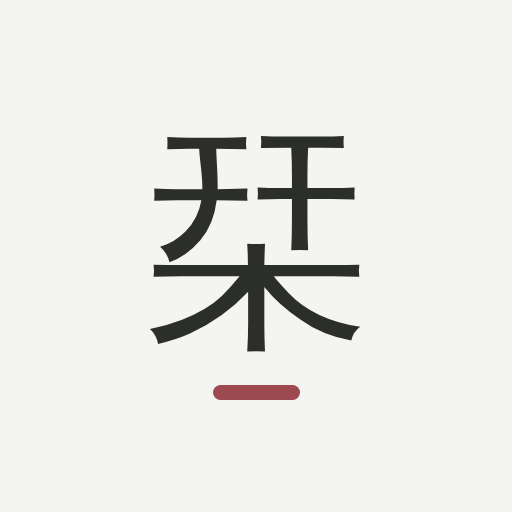
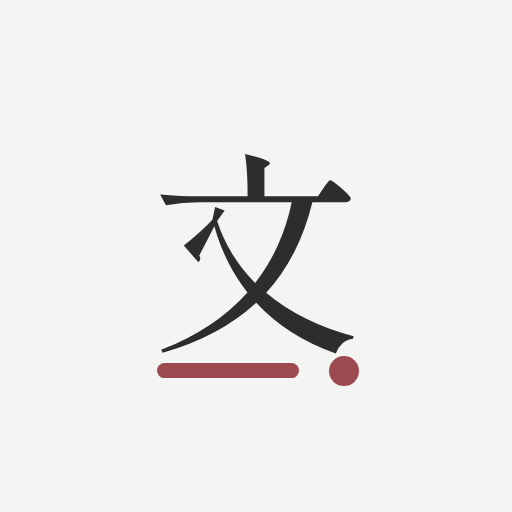
feat: アプリ名を「栞（しおり）」から「文（ふみ）」に変更、ロゴ・アイコンを刷新
日記＝別々の世界に生きる「わたし」たちが時を越えて交わす手紙、という
捉え直しに合わせた改名。ロゴは案A-3（明朝「文」＋紅の傍線＋封蝋の点）。

- ロゴ：ヘッダーの一字を「文」に、傍線の結びに封蝋の点を追加
- アイコン：192/512/maskable 4点を「文」で再生成（和紙地＋封蝋）
- manifest：name/short_name/description を更新
- 文言：「今日に栞を挟む」→「あしたへ文を出す」、設定の紹介文、
  インストール案内、エクスポート見出し、ファイル名（fumi_*）など
- 互換維持：IndexedDB名・バックアップ形式（app:'shiori'）・保存キーは不変。
  既存データ・過去のバックアップはそのまま使える
- Service Worker キャッシュを fumi-shell-v18 に、仕様書に決定を記録

Claude-Session: https://claude.ai/code/session_01QQD8fns4oX9YnaxNuD1tHo

Changed region(s): [[0.2812, 0.25, 0.7188, 0.7812]]

diff --git a/app.js b/app.js
@@ -165,7 +165,7 @@ function updateReflectDayUI(){
   const gt=document.getElementById('gTitle');
   if(gt) gt.textContent=(isToday?'きょう':murmurDayLabel())+'集めた呟き';
   const sb=document.getElementById('saveReflect');
-  if(sb) sb.textContent=isToday?'今日に栞を挟む':'この日に栞を挟む';
+  if(sb) sb.textContent=isToday?'あしたへ文を出す':'この日から文を出す';
 }
 function shiftMurmurDay(n){
   const [y,m,d]=murmurDay.split('-').map(Number);
@@ -413,7 +413,7 @@ async function saveReflection(){
   await setDay(murmurDay,day);
   document.getElementById('savedNote').textContent='保存済み — いつでも書き直せます';
   refreshMeta();
-  toast(isToday?'今日に栞を挟みました':murmurDayLabel()+'に栞を挟みました');
+  toast(isToday?'あしたへ文を出しました':murmurDayLabel()+'から文を出しました');
 }
 
 /* ============ ai reflection draft (share bridge) ============ */
@@ -609,7 +609,7 @@ async function buildExportMd(fromDs,toDs){
   const [fy,fm,fd]=fromDs.split('-').map(Number);
   const [ty,tm,td]=toDs.split('-').map(Number);
   let d=new Date(fy,fm-1,fd); const end=new Date(ty,tm-1,td);
-  let out=`# 栞（しおり）エクスポート\n\n期間: ${fromDs} 〜 ${toDs}\n`;
+  let out=`# 文（ふみ）エクスポート\n\n期間: ${fromDs} 〜 ${toDs}\n`;
   let has=false;
   while(d<=end){
     const ds=fmtKey(d);
@@ -642,7 +642,7 @@ async function exportRange(){
     const blob=new Blob([res.text],{type:'text/markdown;charset=utf-8'});
     const url=URL.createObjectURL(blob);
     const a=document.createElement('a');
-    a.href=url; a.download=`shiori_${from}_${to}.md`;
+    a.href=url; a.download=`fumi_${from}_${to}.md`;
     document.body.appendChild(a); a.click(); a.remove();
     setTimeout(()=>URL.revokeObjectURL(url),1000);
     toast('書き出しました');
@@ -667,7 +667,7 @@ async function saveBackup(){
   const backup = await buildBackup();
   if(!Object.keys(backup.data).length){ toast('バックアップする記録がありません'); return; }
   const json = JSON.stringify(backup);
-  const fname = `shiori_backup_${fmtKey(new Date())}.json`;
+  const fname = `fumi_backup_${fmtKey(new Date())}.json`;
   try{
     const blob=new Blob([json],{type:'application/json'});
     const url=URL.createObjectURL(blob);
@@ -760,7 +760,7 @@ async function onRestoreFile(file){
   let legacy=null;
   if(isLegacyBackup(obj)){ obj=convertLegacyBackup(obj); legacy=obj._legacy; }
   if(!obj || obj.app!=='shiori' || !obj.data || typeof obj.data!=='object'){
-    toast('栞のバックアップではないようです'); return;
+    toast('文のバックアップではないようです'); return;
   }
   if(typeof obj.schemaVersion==='number' && obj.schemaVersion>SCHEMA_VERSION){
     toast('新しいバージョンのバックアップです。アプリを更新してください'); return;
@@ -1416,7 +1416,7 @@ function setupInstallHint(){
   window.addEventListener('beforeinstallprompt',(e)=>{
     e.preventDefault(); deferredPrompt=e;
     addBtn.style.display='';
-    textEl.textContent='ホーム画面に追加すると、栞をアプリのように開けます。';
+    textEl.textContent='ホーム画面に追加すると、文をアプリのように開けます。';
     showSoon();
   });
   addBtn.onclick=async()=>{
@@ -1432,7 +1432,7 @@ function setupInstallHint(){
   const isSafari=isIOS && !/crios|fxios|edgios/i.test(ua);
   if(isIOS && isSafari){
     addBtn.style.display='none';
-    textEl.innerHTML='ホーム画面に追加すると、栞をアプリのように開けます。<br>共有 <span aria-hidden="true">⬆</span> から「ホーム画面に追加」を選んでください。';
+    textEl.innerHTML='ホーム画面に追加すると、文をアプリのように開けます。<br>共有 <span aria-hidden="true">⬆</span> から「ホーム画面に追加」を選んでください。';
     showSoon();
   }
 }

diff --git a/index.html b/index.html
@@ -3,11 +3,11 @@
 <head>
 <meta charset="UTF-8" />
 <meta name="viewport" content="width=device-width, initial-scale=1.0, maximum-scale=1.0, user-scalable=no, interactive-widget=resizes-content" />
-<title>栞 -しおり- 明日のわたしへ</title>
+<title>文 -ふみ- あしたのわたしへ</title>
 <meta name="theme-color" content="#F4F5F2">
 <meta name="apple-mobile-web-app-capable" content="yes">
 <meta name="apple-mobile-web-app-status-bar-style" content="default">
-<meta name="apple-mobile-web-app-title" content="栞">
+<meta name="apple-mobile-web-app-title" content="文">
 <link rel="manifest" href="manifest.webmanifest">
 <link rel="apple-touch-icon" href="icons/icon-192.png">
 <link rel="stylesheet" href="styles.css">
@@ -18,7 +18,7 @@
   <!-- HEADER -->
   <div class="topbar">
     <div>
-      <div class="date"><span class="logo-mark">栞</span><span style="margin:0 8px;color:var(--hairline-strong)">|</span><span id="todayDate">—</span></div>
+      <div class="date"><span class="logo-mark">文</span><span style="margin:0 8px;color:var(--hairline-strong)">|</span><span id="todayDate">—</span></div>
       <div class="title" id="screenTitle">呟き</div>
     </div>
     <div style="display:flex;align-items:center;gap:10px">
@@ -97,7 +97,7 @@
       <div class="reflect-box">
         <textarea id="reflectInput" placeholder="ゆっくり、書きたいことを。"></textarea>
       </div>
-      <button class="save-btn" id="saveReflect" disabled>今日に栞を挟む</button>
+      <button class="save-btn" id="saveReflect" disabled>あしたへ文を出す</button>
       <div class="saved-note" id="savedNote"></div>
       </div>
     </div>
@@ -242,13 +242,13 @@
       <div class="pf-hint">復元時に「マージ」か「上書き」を選べます。ときどき保存して、ドライブ／iCloud などに控えておくと安心です。</div>
 
       <button class="reset-btn" id="resetData">サンプルデータを消して、まっさらに</button>
-      <div class="set-foot">「栞（しおり）」は、今日という頁に栞を挟み、明日のわたしがひらく日記です。その場の呟きと一日の振り返りをゆるやかに束ねます。挟んだ栞は、履歴やうつろいでいつでも読み返せます。差し色の紅は、本に綴じられた栞紐の色です。</div>
+      <div class="set-foot">「文（ふみ）」は、きのうのわたしから届いた便りを今日のわたしが読み、あしたのわたしへ短い文を出す日記です。その場の呟きと一日の振り返りをゆるやかに束ね、出した文は履歴やうつろいでいつでも読み返せます。書かなかった日も、物語が途切れたのではなく、しばらく便りが無かっただけ。差し色の朱は、手紙に封をする封蝋の色です。</div>
     </div>
   </div>
 
   <!-- INSTALL HINT (初回のみ・控えめ) -->
   <div class="install-hint" id="installHint" hidden>
-    <div class="ih-text" id="installHintText">ホーム画面に追加すると、栞をアプリのように開けます。</div>
+    <div class="ih-text" id="installHintText">ホーム画面に追加すると、文をアプリのように開けます。</div>
     <div class="ih-actions">
       <button class="ih-add" id="installAdd">追加</button>
       <button class="ih-close" id="installClose" aria-label="閉じる">✕</button>

diff --git a/styles.css b/styles.css
@@ -72,13 +72,18 @@ textarea,input{font-family:inherit}
   border-bottom:1px solid var(--hairline);flex-shrink:0;background:var(--paper);
 }
 .topbar .date{font-size:13px;color:var(--ink-soft);letter-spacing:.04em;display:flex;align-items:center}
+/* ロゴ「文」（案A-3 封蝋）：明朝一字＋紅の傍線、線の結びに封蝋の点 */
 .logo-mark{
   font-family:var(--mincho);font-size:15px;color:var(--ink);letter-spacing:.1em;
-  position:relative;display:inline-block;padding-bottom:3px;line-height:1.2;
+  position:relative;display:inline-block;padding-bottom:4px;line-height:1.2;
 }
 .logo-mark::after{
-  content:"";position:absolute;left:50%;bottom:0;transform:translateX(-50%);
-  width:14px;height:2px;border-radius:2px;background:var(--accent);
+  content:"";position:absolute;left:0;bottom:0;
+  width:11px;height:2px;border-radius:2px;background:var(--accent);
+}
+.logo-mark::before{
+  content:"";position:absolute;right:0;bottom:-1px;
+  width:4px;height:4px;border-radius:50%;background:var(--accent);
 }
 .topbar .title{font-family:var(--mincho);font-size:21px;font-weight:500;letter-spacing:.08em;margin-top:2px}
 .topbar .streak{

diff --git a/service-worker.js b/service-worker.js
@@ -1,10 +1,10 @@
-/* 栞 — Service Worker
+/* 文（ふみ） — Service Worker
    役割：アプリ本体（HTML/CSS/JS/フォント/アイコン/manifest）だけをキャッシュし、
    オフライン起動を可能にする。
    重要：ユーザーデータ（IndexedDB）は SW の管轄外。ここでは一切触れない。
         キャッシュの更新・削除をしても IndexedDB は消えない（別枠）。 */
 
-const CACHE = 'shiori-shell-v17';
+const CACHE = 'fumi-shell-v18';
 
 // プリキャッシュするアプリ本体。バージョンを上げたら CACHE 名も上げる。
 const SHELL = [

diff --git a/shiori-spec.md b/shiori-spec.md
@@ -168,6 +168,7 @@ PWA化と保存方針を決定：配布はPWA、保存はIndexedDB＋storage.per
 追伸を追加：呟き＝その時の自分からの伝言、追伸＝それを読み返した未来の自分の返事。元の呟きは変えずに echoes として重ね、書いた日から経過を自動表示。呟き＝ゴシック／追伸＝明朝の対比で「時間を置いた思索」を書体でも語る。
 うつろいに任意期間を追加：今週・今月に加え、開始日・終了日を選んで読み解けるように。
 ブランド決定：アクセントカラーは栞紅 #9C4A50（栞紐の臙脂由来）、ロゴは明朝「栞」＋紅の傍線（案C）。候補比較は shiori-brand-board.html に記録。
+アプリ名を「栞（しおり）」から「文（ふみ）」に変更：自分は一本の線ではなく、毎日少しずつ別の世界に生きる「わたし」たちで、日記はそのあいだで交わされる手紙 — という捉え直しから。本（一冊・一本の線）の比喩より、文通の比喩が「追伸」「伝言」の語彙と噛み合う。ロゴは明朝「文」＋紅の傍線＋封蝋の点（案A-3、fumi-logo-board.html で比較）。差し色 #9C4A50 の由来は「栞紐の臙脂」から「封蝋の朱」へ架け替え。保存の言葉は「今日に栞を挟む」→「あしたへ文を出す」。技術識別子（IndexedDB名・バックアップの app:'shiori'・保存キー journal:*）は互換のため変更しない。
 お題（日替わりプロンプト）を廃止：振り返りの入口をさらに軽くし、下書きプロンプトからも {お題} の仕組みを撤去。
 任意期間のエクスポートを追加：設定から期間指定で Markdown 書き出し。
 履歴カレンダーを件数ヒートマップ化：黒丸ではなく、記録件数に応じて背景を濃くする濃淡表示に。
